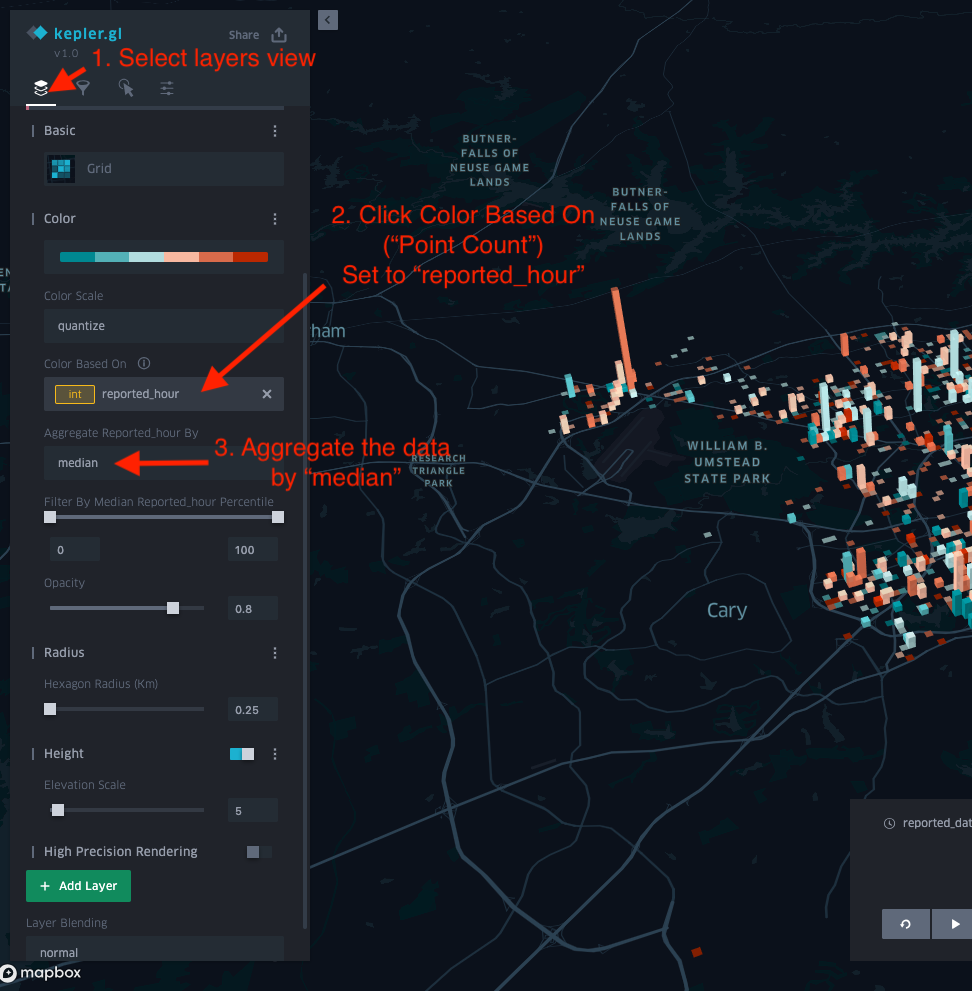
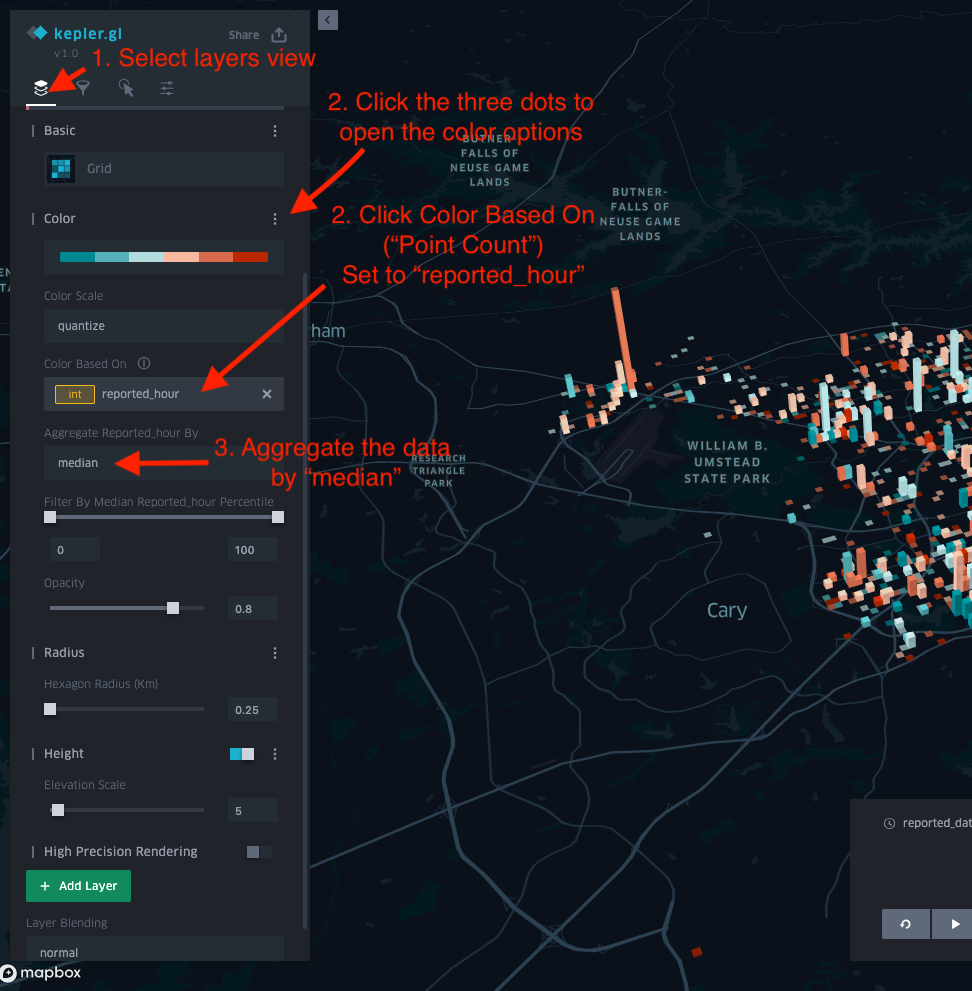
Fixed issue with step 12

Changed region(s): [[0.3395, 0.0908, 0.6173, 0.1816], [0.3086, 0.1816, 0.3395, 0.2119]]

diff --git a/README.md b/README.md
@@ -121,15 +121,18 @@ The map color and height are now both set to represent
 ### 12. Set the colormap to display by attribute values.
 
 1. Switch back to the layer view by clicking the layer icon on the top left corner of the map.
-2. Click underneath **Color Based On** in the layer settings where it says **Point Cloud** and set the variable to **reported_hour**.
+    
+2. Click the three dots to the right of the **Color** section to open the color options.
+
+3. Click underneath **Color Based On** in the layer settings where it says **Point Cloud** and set the variable to **reported_hour**.
 
 ![Color Based On](https://raw.githubusercontent.com/cwhite911/trianglenc-crime/master/images/colorbasedon.png)  
 
-3. Change the aggregation setting to **median**
+4. Change the aggregation setting to **median**
 
 ![Aggregate Reported Hour](https://raw.githubusercontent.com/cwhite911/trianglenc-crime/master/images/aggregateReportedHour.png)  
 
-![Filter and Animate](https://raw.githubusercontent.com/cwhite911/trianglenc-crime/master/images/changeColorAttribute.png)  
+![Filter and Animate](https://raw.githubusercontent.com/cwhite911/trianglenc-crime/master/images/changeColorAttributeRevised.png)  
 
 
 > How can you improve the current visualization? Take a few minutes to explore other channel options.
